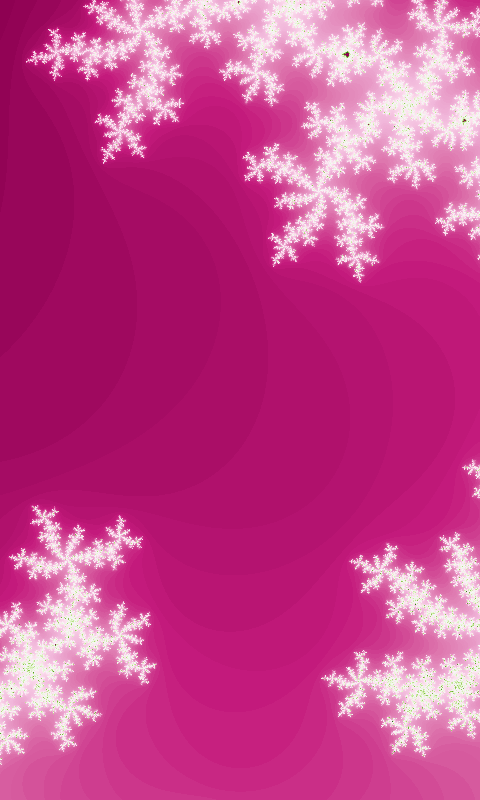
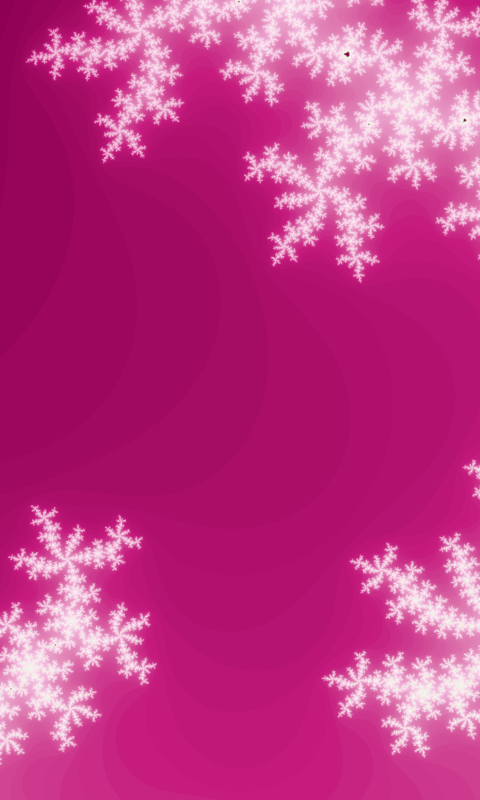
Removed artefacts

diff --git a/README.md b/README.md
@@ -34,7 +34,8 @@ python3 mandelbrot.py -o example_star.png --colormap=BuPu --maxiter 2000       3
 Need a new background image (Samsung Galaxy S2, 480x800)?
 
 ```bash
-$ time ./mandelbrot.py -o example_cellphone.png --maxiter 1500 --colormap=PiYG --saturation=8 point --point=-.51:-.61 -R 480x800 -F 5 --power 6
-./mandelbrot.py -o example_cellphone.png --maxiter 1500 --colormap=PiYG  poin  1,90s user 0,09s system 104% cpu 1,906 total
+$ time ./mandelbrot.py -o example_cellphone_big.png --maxiter 1500 --colormap=PiYG --saturation=8 point --point=-.51:-.61 -R 960x1600 -F 5 --power 6
+./mandelbrot.py -o example_cellphone_big.png --maxiter 1500 --colormap=PiYG    2,61s user 0,12s system 116% cpu 2,338 total
+$ convert example_cellphone_big.png -resize 480 example_cellphone.png
 ```
 [<img src="examples/example_cellphone.png">](examples/example_cellphone.png)
